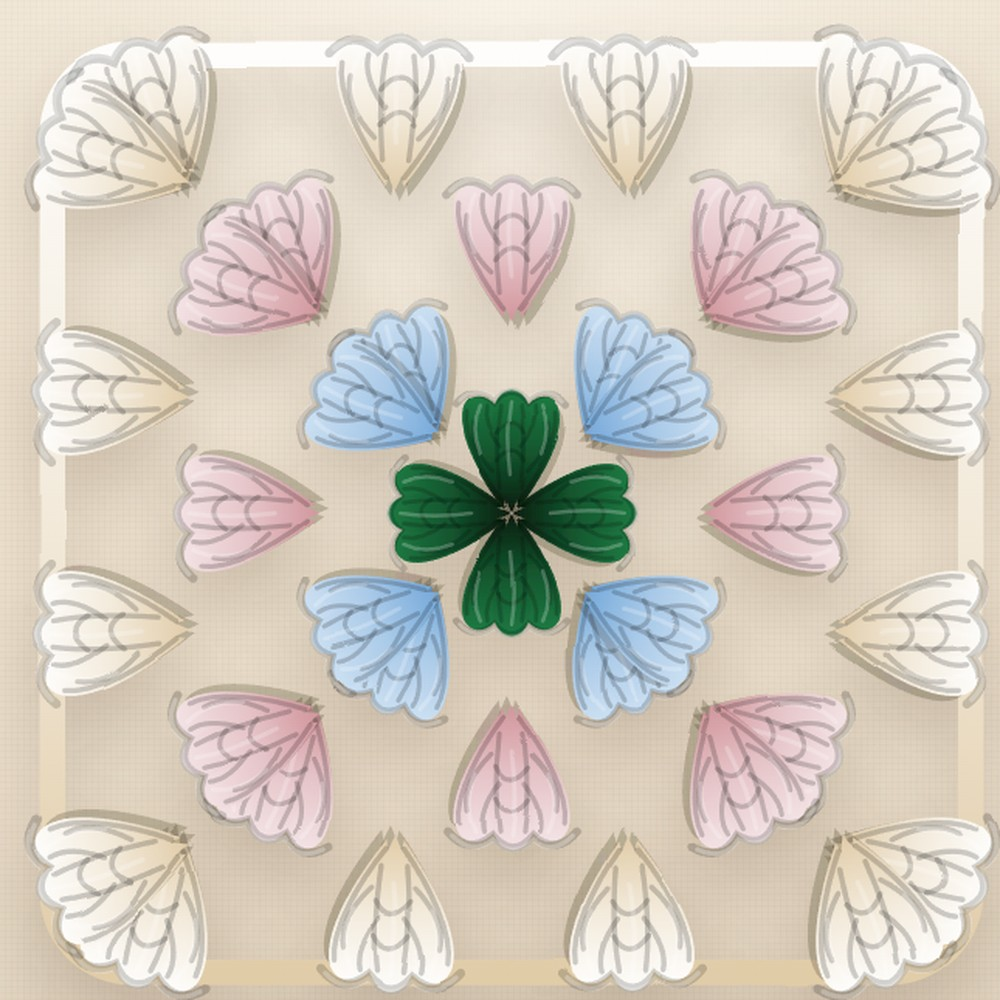
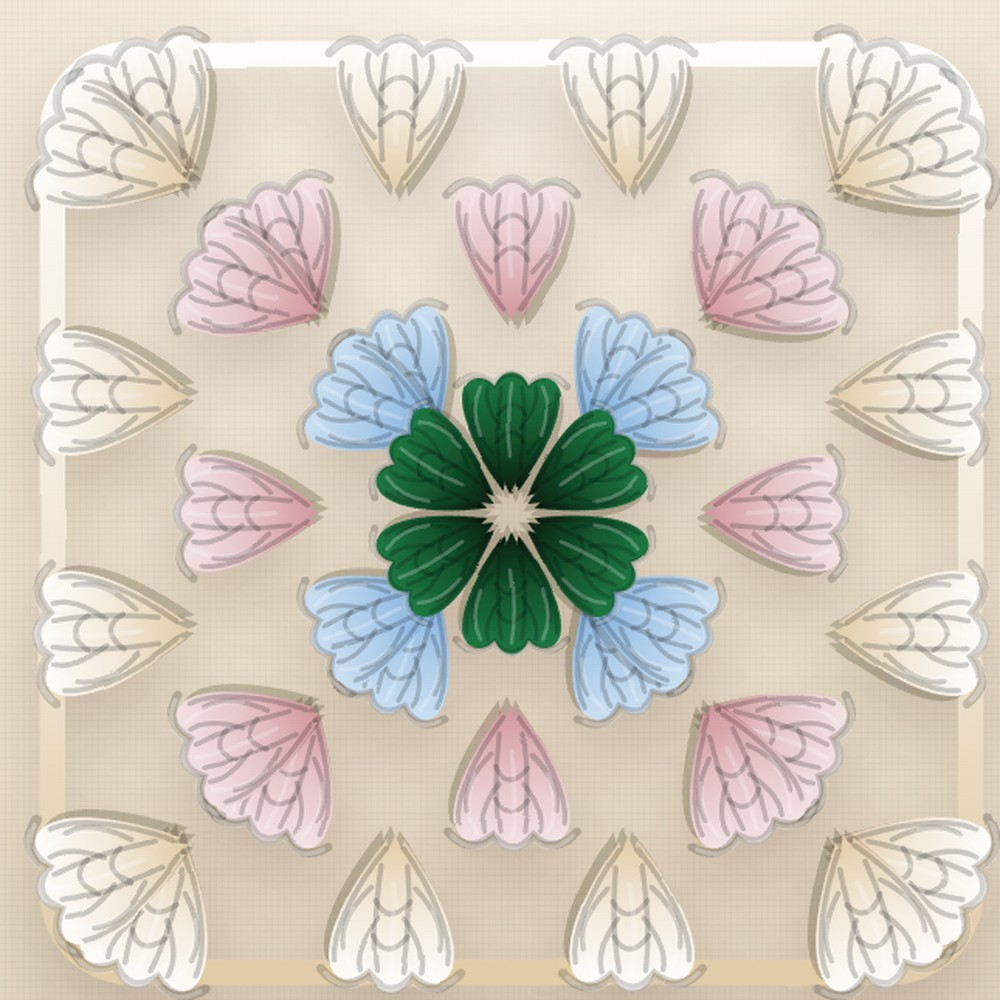
fix: restore the six-cluster center and finalize 6/8/12/16 structure

Changed region(s): [[0.372, 0.372, 0.651, 0.651]]

diff --git a/src/domain/domain.test.ts b/src/domain/domain.test.ts
@@ -47,12 +47,12 @@ const design = createDesign({
 
 describe('flower pattern', () => {
   it('has the expected regions', () => {
-    expect(regionsOfLayer('center')).toHaveLength(4)
+    expect(regionsOfLayer('center')).toHaveLength(6)
     expect(regionsOfLayer('puff')).toHaveLength(8)
     expect(regionsOfLayer('background')).toHaveLength(12)
     expect(regionsOfLayer('border')).toHaveLength(16)
-    expect(FLOWER_REGIONS).toHaveLength(40)
-    expect(new Set(FLOWER_REGIONS.map((region) => region.id)).size).toBe(40)
+    expect(FLOWER_REGIONS).toHaveLength(42)
+    expect(new Set(FLOWER_REGIONS.map((region) => region.id)).size).toBe(42)
     expect(LAYERS).toHaveLength(4)
   })
 
@@ -63,9 +63,9 @@ describe('flower pattern', () => {
     }
   })
 
-  it('builds the 4 / 8 / 12 / 16 cluster square from the reference svg', () => {
+  it('builds the 6 / 8 / 12 / 16 cluster square from the reference photo', () => {
     const geometry = flowerGeometry()
-    expect(geometry.center).toHaveLength(4)
+    expect(geometry.center).toHaveLength(6)
     expect(geometry.inner).toHaveLength(8)
     expect(geometry.outer).toHaveLength(12)
     expect(geometry.border).toHaveLength(16)
@@ -82,7 +82,7 @@ describe('flower pattern', () => {
 
 describe('design operations', () => {
   it('creates a complete design', () => {
-    expect(Object.keys(design.colors)).toHaveLength(40)
+    expect(Object.keys(design.colors)).toHaveLength(42)
     expect(getLayerColors(design)).toEqual([
       '#112233',
       '#223344',
@@ -194,7 +194,7 @@ describe('demo project', () => {
     expect(occupiedCount(project.board)).toBe(4)
     expect(project.palette.length).toBeGreaterThanOrEqual(8)
     for (const item of project.designs) {
-      expect(Object.keys(item.colors)).toHaveLength(40)
+      expect(Object.keys(item.colors)).toHaveLength(42)
       for (const layer of LAYERS) {
         expect(isLayerUniform(item, layer.id)).toBe(true)
       }

diff --git a/src/domain/geometry.ts b/src/domain/geometry.ts
@@ -54,12 +54,18 @@ function cluster(
 }
 
 export function flowerGeometry(): FlowerGeometry {
-  const center = [
-    cluster('petal-0', 'center', 0, -3, 0, 0.95),
-    cluster('petal-1', 'center', 3, 0, 90, 0.95),
-    cluster('petal-2', 'center', 0, 3, 180, 0.95),
-    cluster('petal-3', 'center', -3, 0, 270, 0.95),
-  ]
+  const center = Array.from({ length: 6 }, (_, index) => {
+    const angle = -90 + index * 60
+    const rad = (angle * Math.PI) / 180
+    return cluster(
+      `petal-${index}`,
+      'center',
+      Math.cos(rad) * 8,
+      Math.sin(rad) * 8,
+      angle + 90,
+      0.95,
+    )
+  })
 
   const inner = [
     cluster('puff-0', 'puff', -23, -23, -22, 1.05),

diff --git a/src/domain/patterns.ts b/src/domain/patterns.ts
@@ -10,13 +10,13 @@ export interface LayerMeta {
 }
 
 export const LAYERS: LayerMeta[] = [
-  { id: 'center', name: '第1圈', hint: '花心 · 4 簇', count: 4 },
+  { id: 'center', name: '第1圈', hint: '花心 · 6 簇', count: 6 },
   { id: 'puff', name: '第2圈', hint: '内圈 · 8 簇', count: 8 },
   { id: 'background', name: '第3圈', hint: '外圈 · 12 簇', count: 12 },
   { id: 'border', name: '第4圈', hint: '边框 · 16 簇', count: 16 },
 ]
 
-const centerRegions: PatternRegion[] = Array.from({ length: 4 }, (_, index) => ({
+const centerRegions: PatternRegion[] = Array.from({ length: 6 }, (_, index) => ({
   id: `petal-${index}`,
   layer: 'center',
   index,

diff --git a/src/components/SquareEditor.tsx b/src/components/SquareEditor.tsx
@@ -65,7 +65,7 @@ export default function SquareEditor() {
             spellCheck={false}
           />
           <p className="stage-sub">
-            四圈 · 4 个颜色 · 4 / 8 / 12 / 16
+            四圈 · 4 个颜色 · 6 / 8 / 12 / 16
           </p>
         </div>
         <div className="stage-actions">

diff --git a/README.md b/README.md
@@ -13,7 +13,7 @@
 
 - **不是出图纸工具。** 不做 PNG / PDF 导出，不做线材计算，不做钩织步骤。你只是需要先看一眼，满意了再拿起钩针。
 - **不是账号产品。** 没有后端、没有登录、没有云同步。所有数据都在浏览器本地。
-- **不是像素画板。** 方格只有四圈：第1圈花心 4 簇、第2圈内圈 8 簇、第3圈外圈 12 簇、第4圈边框 16 簇 + 方框；**一圈一个颜色**，不拆单簇。
+- **不是像素画板。** 方格只有四圈：第1圈花心 6 簇、第2圈内圈 8 簇、第3圈外圈 12 簇、第4圈边框 16 簇 + 方框；**一圈一个颜色**，不拆单簇。
 
 ## 能做什么
 
@@ -34,7 +34,7 @@
 
 | 圈 | 针法 | 数量 |
 | --- | --- | --- |
-| 第1圈 | 花心 3 长针簇 | 4 簇 |
+| 第1圈 | 花心 3 长针簇 | 6 簇 |
 | 第2圈 | 内圈 3 长针簇 | 8 簇 |
 | 第3圈 | 外圈 3 长针簇 | 12 簇 |
 | 第4圈 | 边框 3 长针簇 + 方框 | 16 簇 |
@@ -114,8 +114,8 @@ npm run preview # 预览构建产物
 ```text
 src/
   domain/       纯 TS，零 React
-    geometry.ts   方格的方环几何（4 / 8 / 12 / 16 簇 + 方框）
-    patterns.ts   花样结构：4 / 8 / 12 / 16 个区域
+    geometry.ts   方格的方环几何（6 / 8 / 12 / 16 簇 + 方框）
+    patterns.ts   花样结构：6 / 8 / 12 / 16 个区域
     design.ts     四圈四色、旧数据归一化、四色轮换
     board.ts      布局：引用、旋转、缩放、循环铺色
     presets.ts    九款参考配色 + 示例项目
@@ -135,7 +135,7 @@ src/
 
 ## 已知取舍
 
-- 方格是**四圈四色的祖母方格**，不是逐针钩织图纸；4 / 8 / 12 / 16 簇的结构按参考图还原，单簇的针数做了视觉归一。
+- 方格是**四圈四色的祖母方格**，不是逐针钩织图纸；6 / 8 / 12 / 16 簇的结构按参考图还原，单簇的针数做了视觉归一。
 - 不做单簇上色，也没有单独的背景层；白色是某一圈的颜色，空隙露出台面。
 - 一个项目只有一张布局板；改行列时，缩小掉的格子不会删除，改回来还在。
 - 布局最大 24×24；超过约 150 格时，拼毯会自动简化针脚细节以保证流畅。
